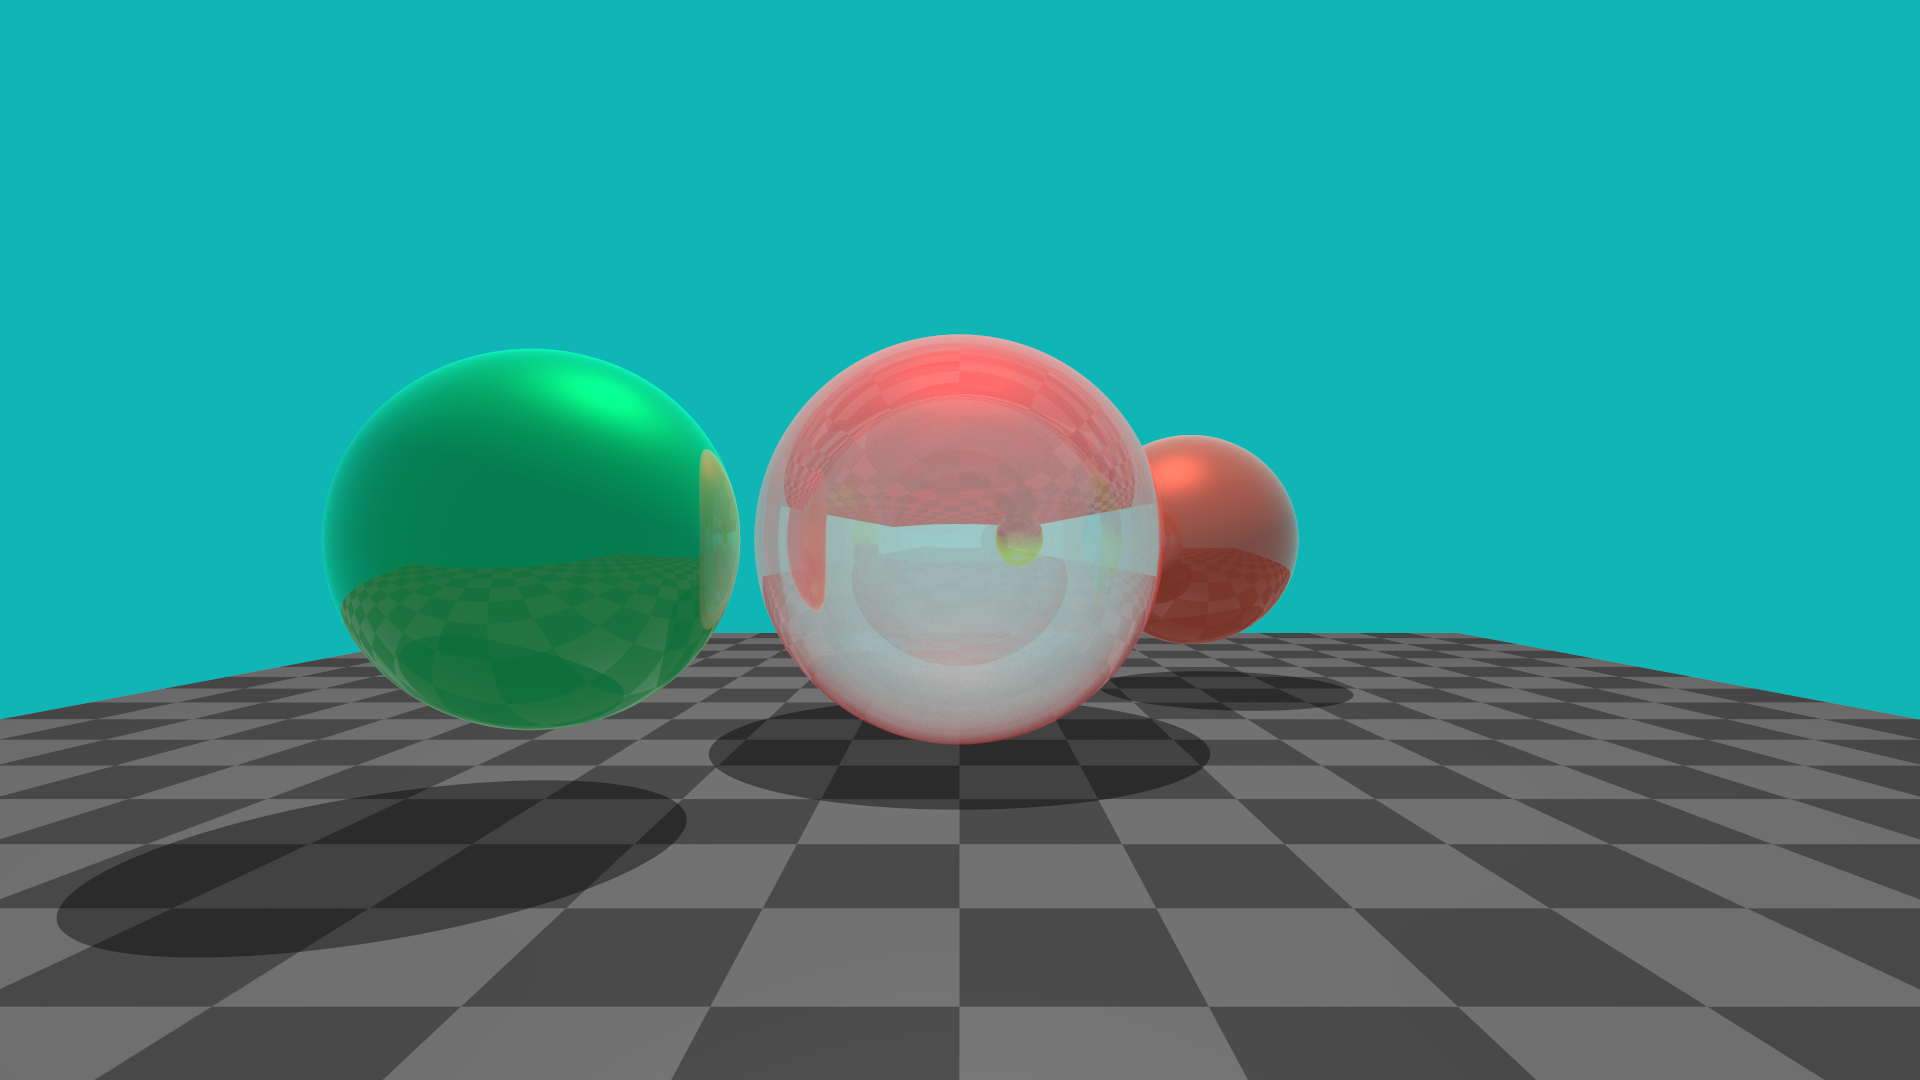
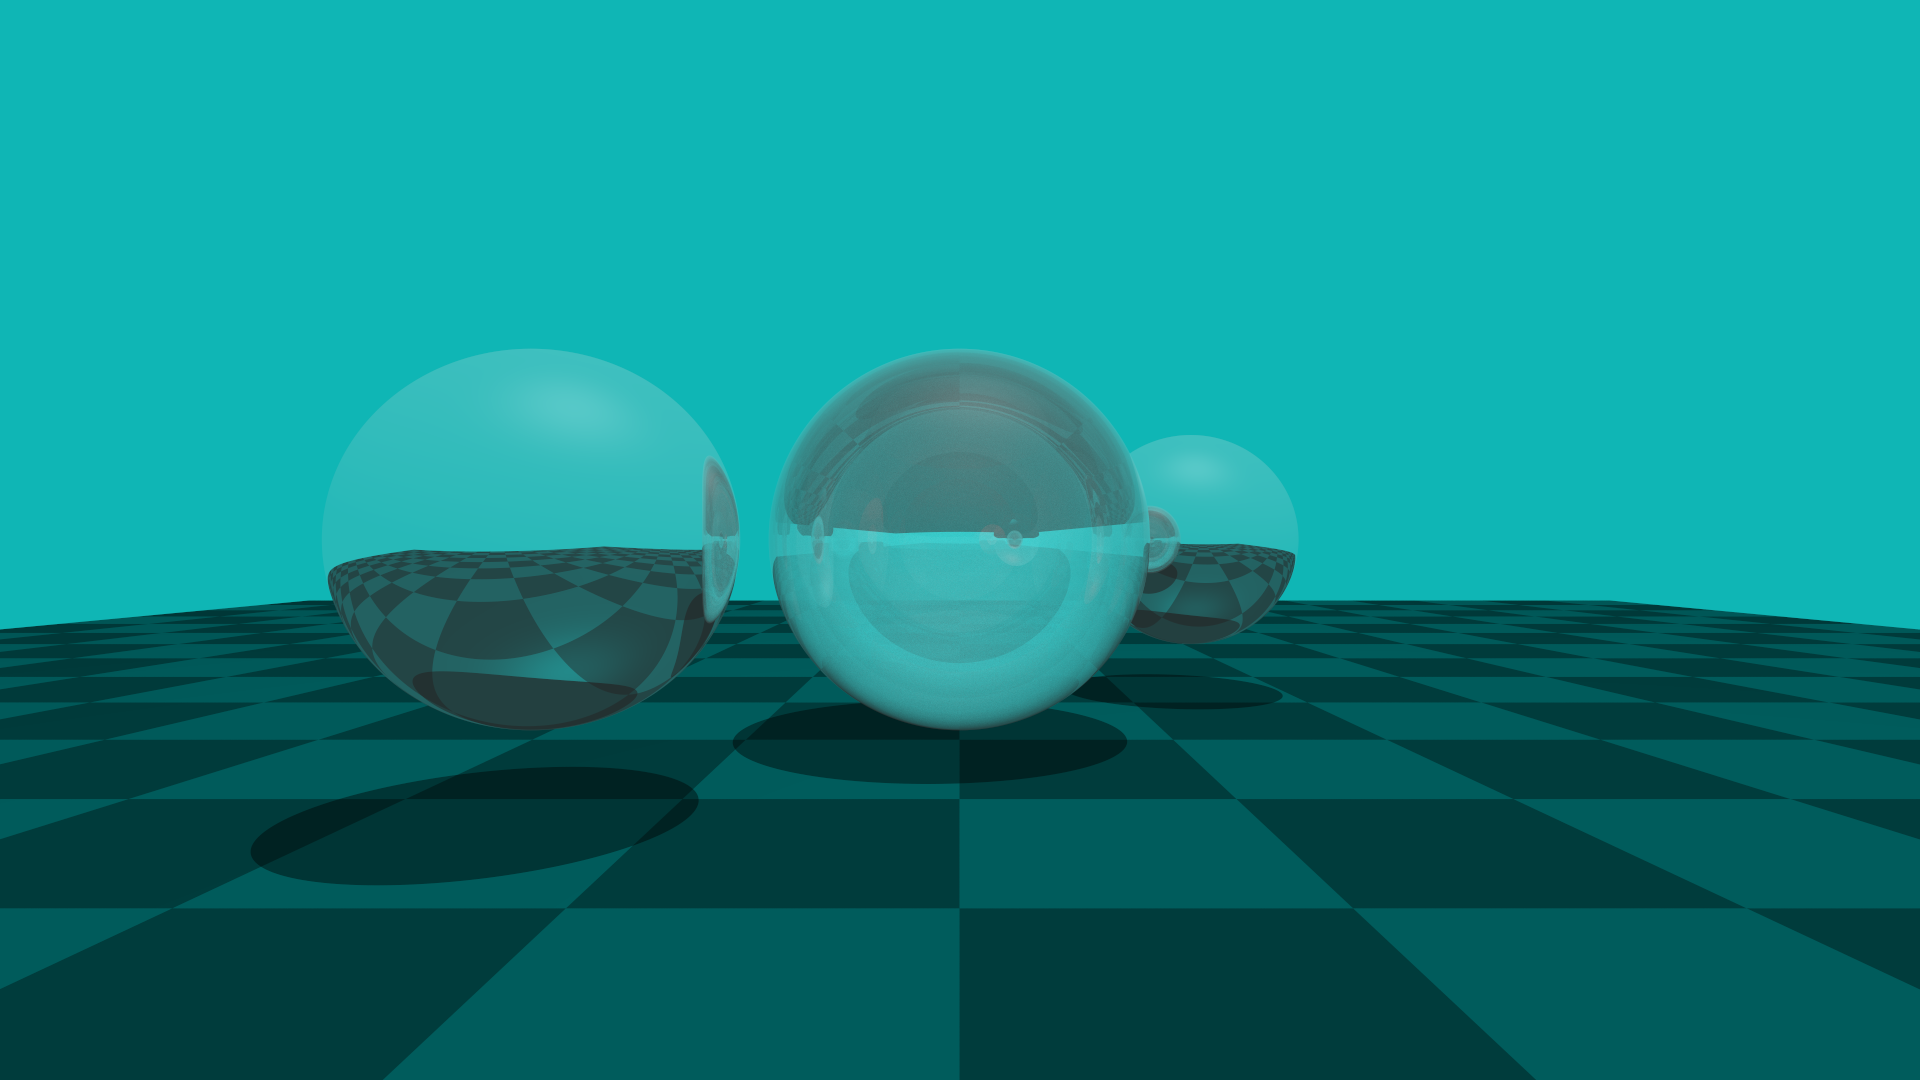
update

diff --git a/main.c b/main.c
@@ -19,7 +19,8 @@ options_t options = {
     .height = 180,
     .samples = 50,
     .result = "result.png",
-    .obj = "assets/cube.obj"};
+    .obj = "assets/cube.obj"
+};
 
 uint8_t *framebuffer = NULL;
 
@@ -28,18 +29,13 @@ extern int intersection_test_count;
 
 void write_image(int signal)
 {
-    printf("on exit\n");
     if (framebuffer != NULL)
     {
         if (stbi_write_png(options.result, options.width, options.height, 3, framebuffer, options.width * 3) == 0)
-        {
-            fprintf(stderr, "failed to write");
             exit(EXIT_FAILURE);
-        }
         else
-        {
             printf("done.\n");
-        }
+
         free(framebuffer);
     }
 }
@@ -149,15 +145,15 @@ int main(int argc, char **argv)
         {
             .type = GEOMETRY_SPHERE, 
             .material = { 
-                .color = BLACK, 
-                .flags = M_PHONG | M_REFLECTION | M_REFRACTION
+                .color = RGB(20, 20, 20), 
+                .flags = M_PHONG | M_REFLECTION
             }, 
             .geometry.sphere = &(sphere_t){ {1.1, 1, -1}, 0.5 }
         },
         {
             .type = GEOMETRY_SPHERE, 
             .material = { 
-                .color = BLACK, 
+                .color = RGB(20, 20, 20), 
                 .flags = M_PHONG | M_REFLECTION | M_REFRACTION
             }, 
             .geometry.sphere = &(sphere_t){ {0, 1, 0}, 0.7 }
@@ -177,7 +173,7 @@ int main(int argc, char **argv)
     if (framebuffer == NULL)
     {
         fprintf(stderr, "could not allocate framebuffer\n");
-        exit(1);
+        exit(EXIT_FAILURE);
     }
 
     memset(framebuffer, 0x0,buff_len);
@@ -199,5 +195,5 @@ int main(int argc, char **argv)
     printf("rendering took %f seconds\n", time_taken);
     printf("writing result to '%s'...\n", options.result);
     write_image(0);
-    return 0;
+    return EXIT_SUCCESS;
 }

diff --git a/raytracer.c b/raytracer.c
@@ -667,8 +667,8 @@ vec3 cast_ray_1(ray_t *ray, object_t *objects, size_t nobj, int depth)
   if (flags & M_REFRACTION)
   {
     double transparency = 0.5;
-    double facingratio = -dot(ray->direction, hit.normal);
-    double fresnel = mix(pow(1 - facingratio, 3), 1, 0.1);
+    double facingratio  = -dot(ray->direction, hit.normal);
+    double fresnel      = mix(pow(1 - facingratio, 3), 1, 0.1);
 
     kr = fresnel;
     kt = (1 - fresnel) * transparency;

diff --git a/raytracer.h b/raytracer.h
@@ -159,6 +159,7 @@ typedef struct
 {
   int width, height, samples;
   char *result, *obj;
+  vec3 background;
 } options_t;
 
 /*==================[external function declarations]========================*/
